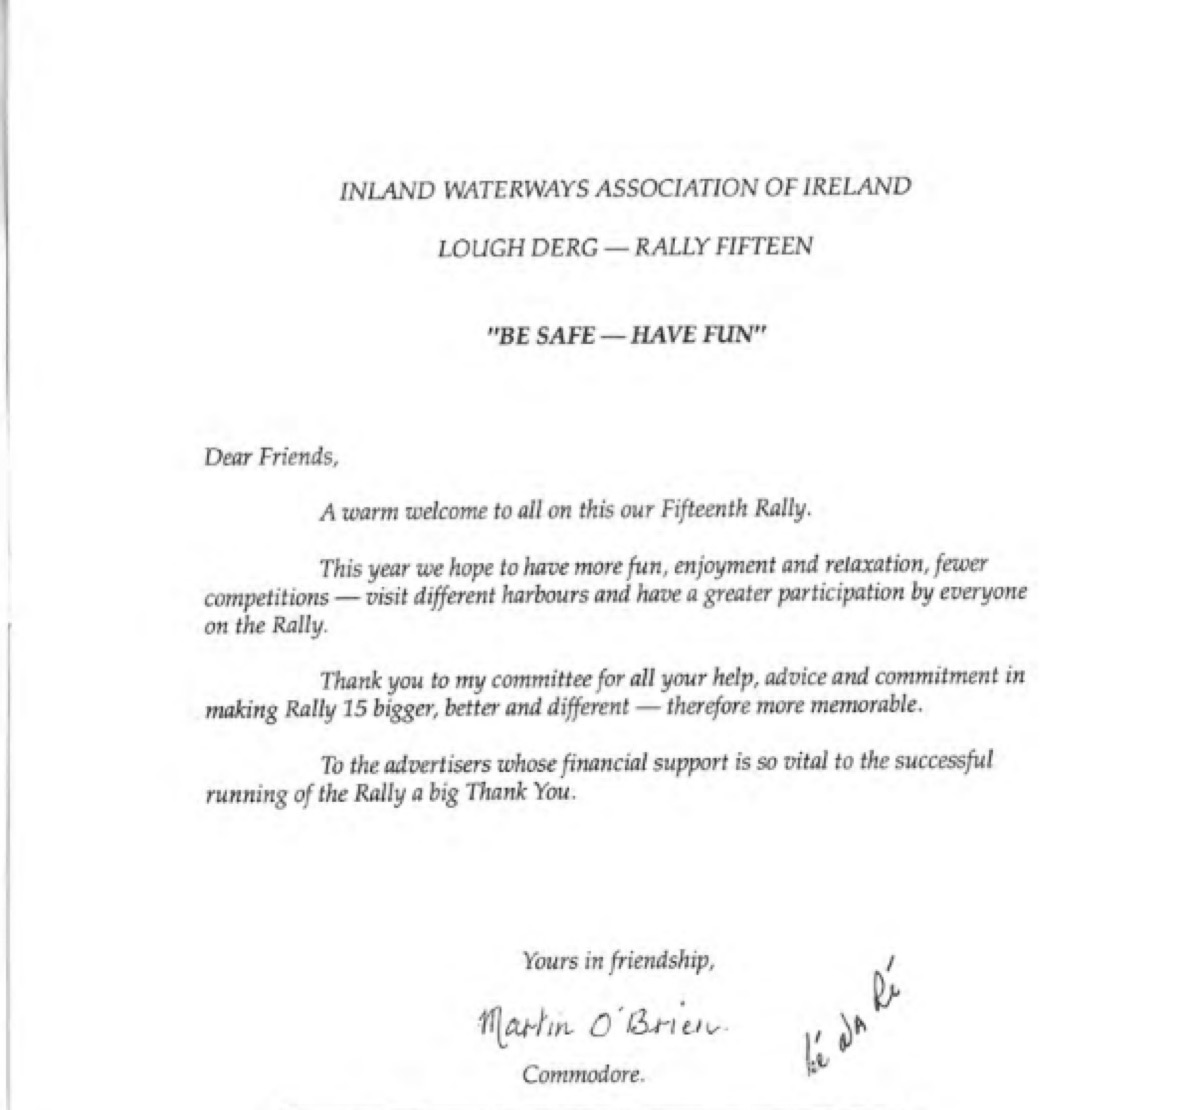
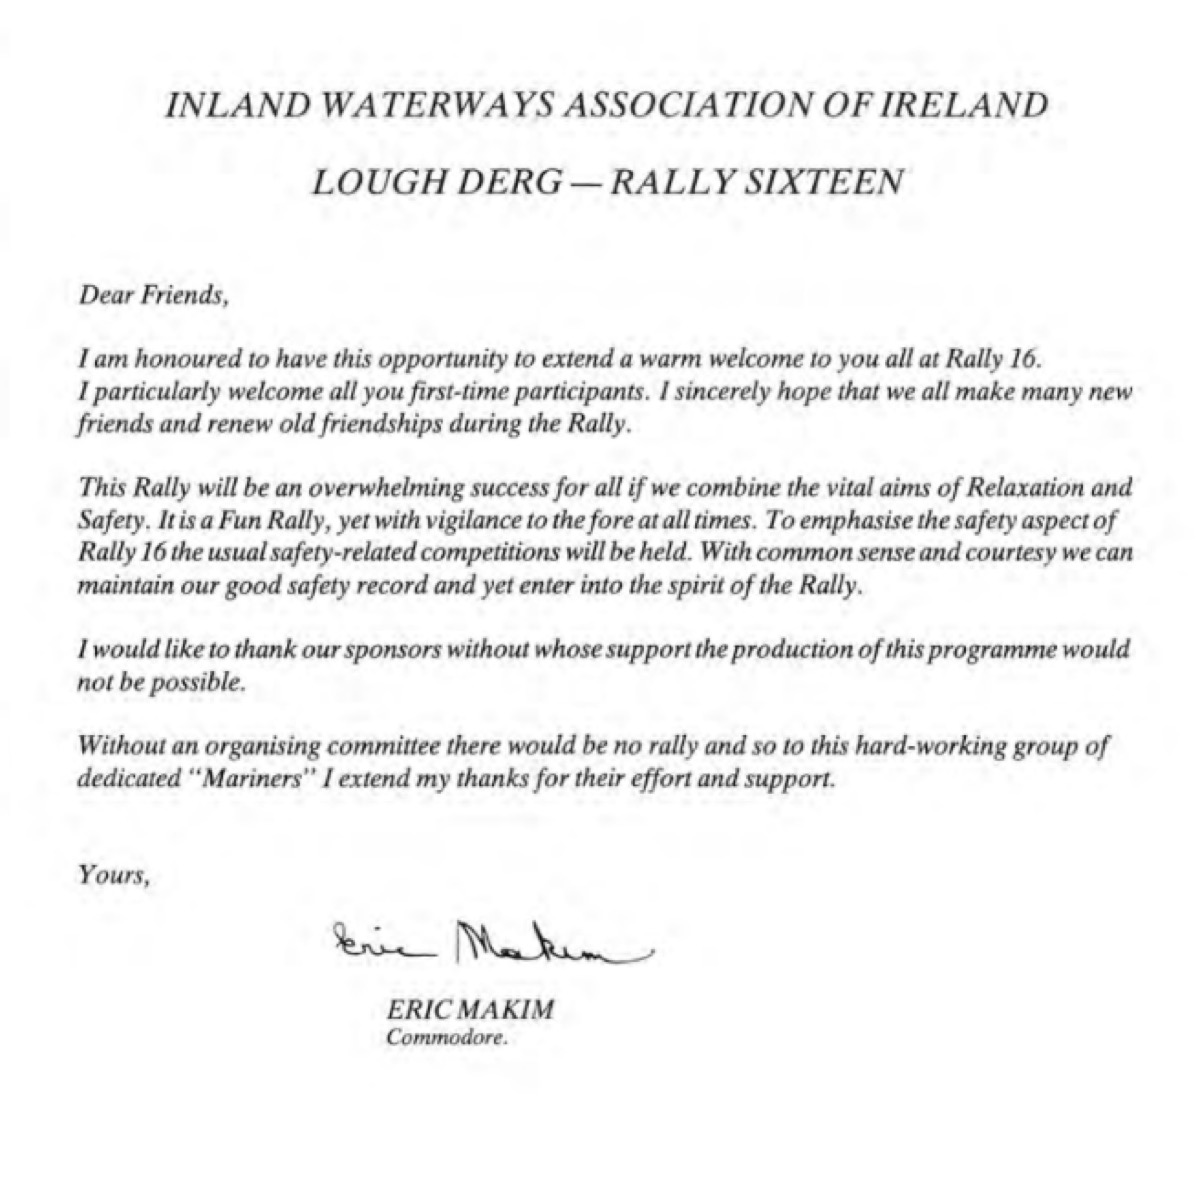
Replace Rally 16 image and add Fish of the Shannon article

diff --git a/content/archive/magazines/fish-of-the-shannon.md b/content/archive/magazines/fish-of-the-shannon.md
@@ -1,0 +1,76 @@
+Title: The Fish of the Shannon
+Date: 2024-02-15
+Category: Magazines
+Slug: archive/magazines/fish-of-the-shannon
+
+*This article was extracted from the Rally 17 magazine.*
+
+# The Fish of the Shannon
+
+**SALMON**
+*(Salmo salar). Ir. Bradán; Fr. Saumon; Ge. Lachs; Du. Zalm; It. Salmone de reno; Sp. Salmón.*
+
+More important perhaps from a general interest point of view are the salmon and the trout, both of ancient lineage and closely related. The salmon supports a commercial fishery in the estuary and in the upper tidal waters, as well as a rod fishery. Today, they are rarely caught in the upper reaches.
+
+Needless to say, the best specimens will be found in the tidal waters. By the time Boyle Water is reached, the fish will have been in fresh water a long time and their general condition will have deteriorated. When salmon come up river to spawn they cease feeding and literally wear themselves out in the search for the right place to breed. When this is found, the female hollows out a shallow trough with her body and fins and lays her eggs, which are fertilised by the male. Their one purpose accomplished, both male and female seem to lose all interest in life and drift listlessly down-river to the sea and to death. It is generally supposed that the salmon lives to spawn only once, though this has been denied by some experts.
+
+**BROWN TROUT**
+*(Salmo trutta). Ir. Breac; Fr. Truite; Ge. Forelle; Du. Forel; It. Trota; Sp. Trucha.*
+
+The trout, a close relative to the salmon, would appear to be more fortunate or less delicate.
+
+It does not die after breeding but lives to spawn three, or possibly, four times. Brown trout reach large dimensions in the limestone reaches of the main river and in its lakes and tributaries.
+
+**POLLAN**
+*(Coregonus albula).*
+
+An interesting Irish species of white-fish, known in this country as pollan, is found in the Shannon lakes, particularly Lough Derg and Lough Ree. They are seldom seen and are only captured occasionally in the nets at the eel weirs.
+
+**EEL**
+*(Anguilla anguilla). Ir. Eascon; Fr. Anguille; Ge. Aal; Du. Paling; It. Anguilla; Sp. Anguila.*
+
+One fish, which is rarely mentioned — and may well be despised by casual anglers — is the eel. Yet this palatable and interesting fish is plentiful in all parts of the Shannon system and is captured by baited long lines and traps. Eels inhabit not only rivers and lakes, but also brooks and isolated ponds, sometimes remote from the river or its tributary streams.
+
+Towards the autumn some eels cease feeding and become silvery; the snout also becomes sharp and the eyes larger. These silver eels descend the river to the sea and they travel countless miles across the Atlantic to breed in the sea, south east of Bermuda and then, with that almost ritual finality of sub-rational nature, to die.
+
+**LAMPREY**
+*(Petromyzon marinus). Ir. Loimpre; Fr. Lamproie marine; Ge. Meerneunauge; Du. Zeeprik; It. Lampreda di mare; Sp. Lamprea de mar.*
+
+Three species of lamprey, the large marine lamprey, the smaller river lamprey and the stream lamprey, or lampern, frequent the River Shannon. The first species spawns in April or May in the lower part of the main river; the second may run up into Lough Derg. The lampern is distributed through even the smallest streams. The flesh of the lamprey is considered a delicacy in parts of Europe, but is very indigestible. Consider the fate of Henry I, who died after eating a 'surfeit of lampreys'!
+
+The Mysis relicta, the Irish pollan and the char are all relict Arctic species, locked in the Shannon lakes.
+
+Mention should also be made of the smelt, which spawns in the tidal waters in the month of April or May.
+
+**BREAM**
+*(Abramis brama). Ir. Bréan; Fr. Brême; Ge. Blei, Brachsen; Du. Brasem; It. Brama.*
+
+A large flat fish growing to as much as 12 lbs. in weight. The meadows stretch below Athlone is probably the best bream fishery in Europe but bream are to be found all along the Shannon system. Rudd/bream and roach/bream hybrids may also be found.
+
+**PIKE**
+*PIKE (Esox lucius). Ir. Liús; Fr. Brochet; Ge. Hecht; Du. Snoek; It. Luccio; Sp. Lucio.*
+
+Pike are found everywhere on the Shannon and live on other fish. They have a torpedo shaped body and are a very large fish growing to as much as 60 lbs. in weight.
+
+**PERCH**
+*(Perca fluviatilis). Ir. Péirse; Fr. Perche; Ge. Baarsch; Du. Baars; It. Pesce Persico; Sp. Perca.*
+
+Also found everywhere, these are a small, edible fish, growing to about 6 lbs. maximum.
+
+**ROACH**
+*(Rutilus rutilus). Ir. —; Fr. Gardon; Ge. Plötze, Rotauge; Du. Blankvoorn; It. Triotto; Sp. Bermejuela.*
+
+Roach, which have been introduced from the Erne by continental anglers using them as live bait, are spreading all over the Shannon. They are a voracious fish devouring vegetation and taking over from the natural species. Rudd/roach and rudd/bream hybrids are possible.
+
+**RUDD**
+*(Scardinius erythrophthalmus). Ir. Tallaig or Róiste; Fr. Rotengle; Ge. Rotfeder; Du. Ruisvoorn; It. Scardola.*
+
+Very plentiful, and in some areas mainly Garnafeilagh Lough north of Athlone, a rudd/bream hybrid is found.
+
+**TENCH**
+*(Tinca tinca). Fr. Tanche; Ge. Schleie; Du. Zeelt; It. Tinca; Sp. Tenca.*
+
+A thick set fish growing to about 10 lbs. Originally from Asia and Siberia, it thrives in weedy ponds and is good to eat.
+
+**'TIDDLERS'**
+Other fishes in the Shannon system include minnows, stickle-backs (the 'tiddlers', beloved of the schoolboy with a jam-jar), loaches and gudgeon and these four small species are widely spread.

diff --git a/content/archive/magazines/index.md b/content/archive/magazines/index.md
@@ -77,6 +77,11 @@ main, .l-measure {
         <img src="{static}/images/people_placeholder.png" alt="The Year of the Corncrake">
         <div class="gallery-caption">Rally Magazine 16 (1991): The Corncrake</div>
     </a>
+
+    <a href="{filename}/archive/magazines/fish-of-the-shannon.md" class="gallery-item">
+        <img src="{static}/images/people_placeholder.png" alt="The Fish of the Shannon">
+        <div class="gallery-caption">Rally Magazine 17 (1992): Fish of the Shannon</div>
+    </a>
 </div>
 
 ## Magazine Articles: History of the Lake and River
